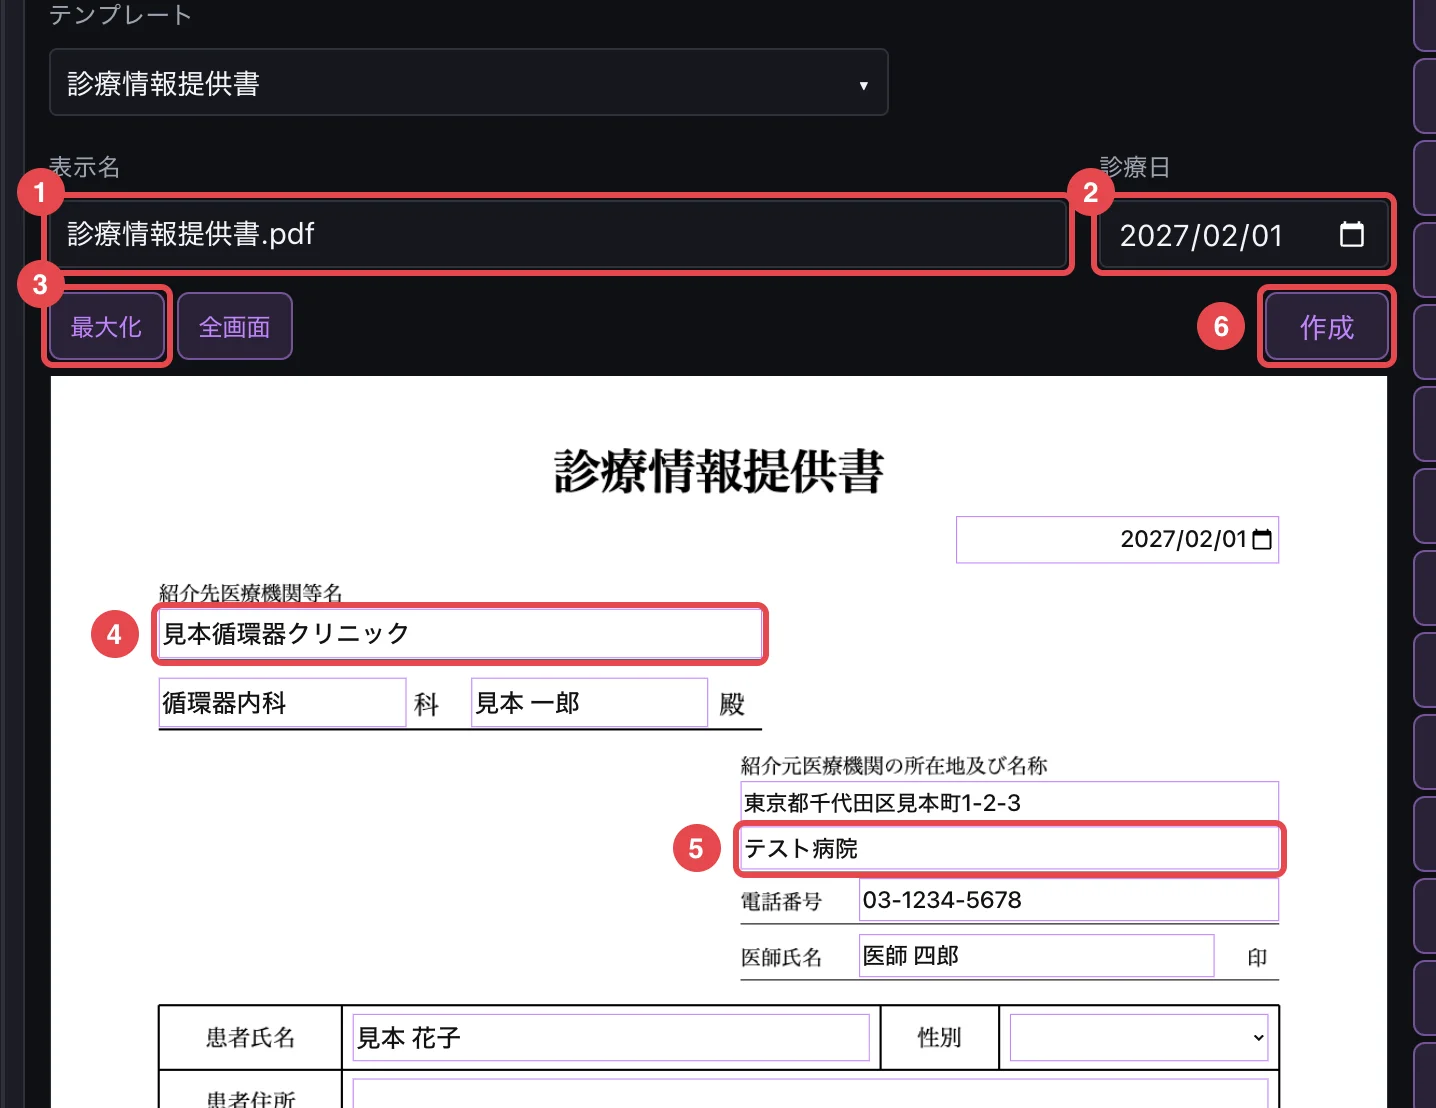
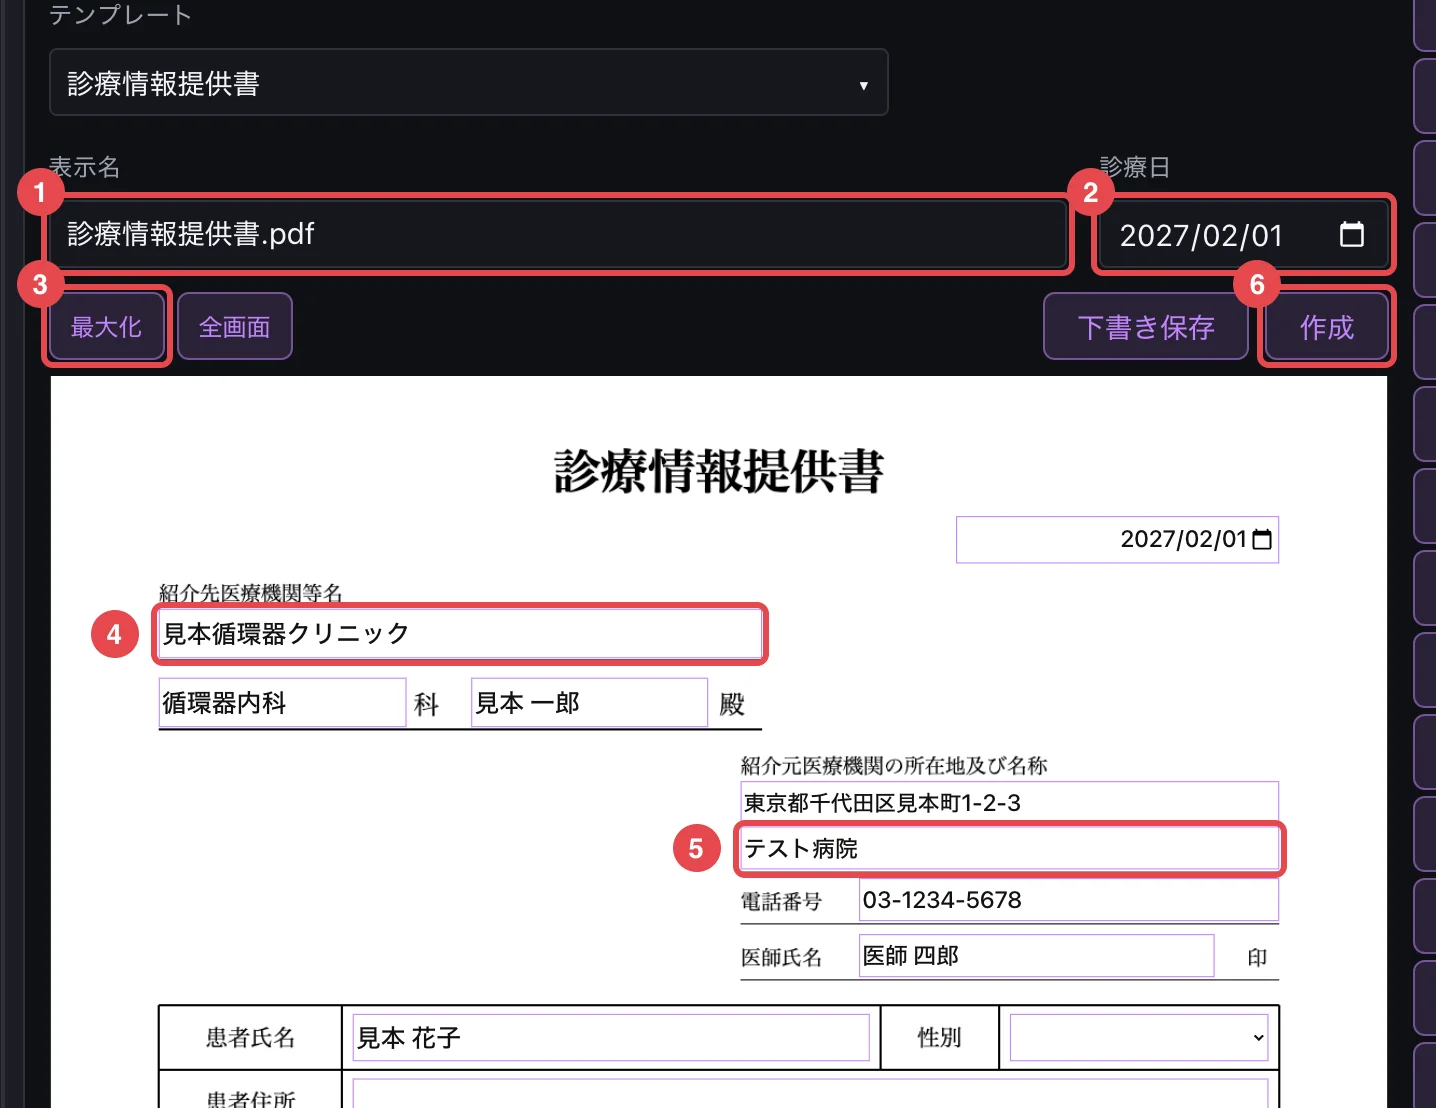
docs: 下書き保存を操作マニュアルに反映

Changed region(s): [[0.7047, 0.2148, 0.8886, 0.3375]]

diff --git a/docs/manual/document.md b/docs/manual/document.md
@@ -33,6 +33,14 @@
 
 同じ患者に同じ書式で作った文書があると、「前回値複写」が出ます。押すと前回の入力が入ります。
 
+## 書きかけで残す(下書き保存)
+
+書き終えていないときは、「作成」の左の「下書き保存」を押します。必須の欄が空でも残せます。
+
+- 下書きは、カルテに「文書作成」のカード(「入力中」)で出ます。PDF はまだ作られず、「ファイル」タブにも入りません。指導・管理料も算定されません。
+- 続きを書くときは、カードの「⋮」の「編集」で開きます。「下書き保存」でまた残すか、「作成」で文書にします。
+- 要らなくなった下書きは、カードの「⋮」の「削除」で消します。
+
 ## カルテから書き写す(転記)
 
 処方・注射・部門のオーダー・病名・検査結果を、選んで欄に書き足せます。
